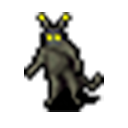
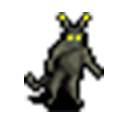
Add level 17

Changed region(s): [[0.1875, 0.0938, 0.8125, 0.8438], [0.5625, 0.7812, 0.5938, 0.8125], [0.4062, 0.7812, 0.4375, 0.8125]]

diff --git a/js/enemy.js b/js/enemy.js
@@ -62,7 +62,7 @@ var speedThirteen = 220;
 var speedFourteen = 230;
 var speedFifteen= 240;
 var speedSixteen = 250;
-var speedSeventeen = 260;
+var speedSeventeen = 100;
 var speedEighteen = 270;
 var speedNineteen = 290;
 var speedTwenty = 300;
@@ -660,15 +660,15 @@ GiantSerpent.prototype.constructor = Beast;
 // Define Trolls level 16 mobs
 //////////////////////////////////
 
-function TrollFat(y) {
+function TrollBlue(y) {
   var obj = new Beast(y);
-  obj.sprite = 'img/troll_fat.png';
+  obj.sprite = 'img/troll_blue.png';
   obj.speed = speedSixteen - 150;
   obj.direction = "left";
   return obj;
 }
-TrollFat.prototype = Object.create(Beast.prototype);
-TrollFat.prototype.constructor = Beast;
+TrollBlue.prototype = Object.create(Beast.prototype);
+TrollBlue.prototype.constructor = Beast;
 
 function TrollGrey(y) {
   var obj = new Beast(y);
@@ -717,6 +717,60 @@ function TrollWhite(y) {
 TrollWhite.prototype = Object.create(Beast.prototype);
 TrollWhite.prototype.constructor = Beast;
 
+///////////////////////////////////////////////////
+// Define Imps level 17 mobs
+//////////////////////////////////
+
+function ImpPurple(y) {
+  var obj = new Beast(y);
+  obj.sprite = 'img/imp_purple.png';
+  obj.speed = speedSeventeen;
+  return obj;
+}
+ImpPurple.prototype = Object.create(Beast.prototype);
+ImpPurple.prototype.constructor = Beast;
+
+function ImpRed(y) {
+  var obj = new Beast(y);
+  obj.sprite = 'img/imp_red.png';
+  obj.speed = speedSeventeen + 8;
+  obj.direction = "left";
+  return obj;
+}
+ImpRed.prototype = Object.create(Beast.prototype);
+ImpRed.prototype.constructor = Beast;
+
+function ImpEnchanted(y) {
+  var obj = new Beast(y);
+  obj.sprite = 'img/imp_enchanted.png';
+  obj.speed = speedSeventeen + 80;
+  obj.direction = "left";
+  return obj;
+}
+ImpEnchanted.prototype = Object.create(Beast.prototype);
+ImpEnchanted.prototype.constructor = Beast;
+
+function ImpBlack(y) {
+  var obj = new Beast(y);
+  obj.sprite = 'img/imp_black.png';
+  obj.speed = speedSeventeen + 20;
+  return obj;
+}
+ImpBlack.prototype = Object.create(Beast.prototype);
+ImpBlack.prototype.constructor = Beast;
+
+function ImpMaster(y) {
+  var obj = new Beast(y);
+  obj.sprite = 'img/imp_master.png';
+  obj.speed = speedSeventeen + 140;
+  return obj;
+}
+ImpMaster.prototype = Object.create(Beast.prototype);
+ImpMaster.prototype.constructor = Beast;
+
+///////////////////////////////////////////////////
+// Define Elementals level 18 mobs
+//////////////////////////////////
 
 ///////////////////////////////////////////////////////
 // Instantiate all objects
@@ -956,16 +1010,31 @@ levelFifteen.push(giantSerpent);
 /////////////////////////////////////////
 // Instantiate Land Beasts lvl 16 enemies
 
-var trollFat = new TrollFat(row2);
+var trollBlue = new TrollBlue(row2);
 var trollGrey = new TrollGrey(row3);
 var trollGreen = new TrollGreen(row4);
 var trollRed = new TrollRed(row3);
 var trollBlack = new TrollBlack(row4);
 var trollWhite = new TrollWhite(row5);
 
-levelSixteen.push(trollFat);
+levelSixteen.push(trollBlue);
 levelSixteen.push(trollGrey);
 levelSixteen.push(trollGreen);
 levelSixteen.push(trollRed);
 levelSixteen.push(trollBlack);
 levelSixteen.push(trollWhite);
+
+/////////////////////////////////////////
+// Instantiate Imps lvl 17 enemies
+
+var impPurple = new ImpPurple(row3);
+var impRed = new ImpRed(row3);
+var impEnchanted = new ImpEnchanted(row4);
+var impBlack = new ImpBlack(row4);
+var impMaster = new ImpMaster(row6);
+
+levelSeventeen.push(impPurple);
+levelSeventeen.push(impRed);
+levelSeventeen.push(impEnchanted);
+levelSeventeen.push(impBlack);
+levelSeventeen.push(impMaster);

diff --git a/js/levelBuilder.js b/js/levelBuilder.js
@@ -114,6 +114,20 @@ function renderEntities() {
       levelSixteen.forEach(function(enemy) {
         enemy.render();
       });
+    } else if (player.level === 17) {
+      obstaclesSeventeen.forEach(function(obstacle) {
+        obstacle.render();
+      });
+      levelSeventeen.forEach(function(enemy) {
+        enemy.render();
+      });
+    } else if (player.level === 18) {
+      obstaclesEighteen.forEach(function(obstacle) {
+        obstacle.render();
+      });
+      levelEighteen.forEach(function(enemy) {
+        enemy.render();
+      });
     }
 
     player.render();
@@ -184,6 +198,10 @@ function updateEntities(dt) {
       });
     } else if (player.level === 16) {
       levelSixteen.forEach(function(enemy) {
+        enemy.update(dt);
+      });
+    } else if (player.level === 17) {
+      levelSeventeen.forEach(function(enemy) {
         enemy.update(dt);
       });
     }
@@ -339,6 +357,24 @@ function renderWorld() {
             'img/badlands_green.png',    // Row 3
             'img/badlands_green.png',    // Row 2
             'img/grass_jungle.png'    // Row 1 - Bottom Row
+        ];
+      } else if (player.level === 17) {
+        rowImages = [
+            'img/badlands_jungle.png',     // Row 6 - Top row
+            'img/badlands_orange.png',  // Row 5
+            'img/badlands_orange.png',     // Row 4
+            'img/badlands_orange.png',    // Row 3
+            'img/badlands_orange.png',    // Row 2
+            'img/badlands_gold.png'    // Row 1 - Bottom Row
+        ];
+      } else if (player.level === 18) {
+        rowImages = [
+            'img/rock_path.png',     // Row 6 - Top row
+            'img/badlands_jungle.png',  // Row 5
+            'img/badlands_jungle.png',     // Row 4
+            'img/badlands_jungle.png',    // Row 3
+            'img/badlands_jungle.png',    // Row 2
+            'img/badlands_green.png'    // Row 1 - Bottom Row
         ];
       }
 

diff --git a/js/obstacle.js b/js/obstacle.js
@@ -531,4 +531,34 @@ obstaclesSixteen.push(sixteenRock7);
 obstaclesSixteen.push(sixteenRock8);
 
 /////////////////////////////////////////
-// obstacles level 17 (Land Beasts)
+// obstacles level 17 (Imps)
+
+// lower row of rocks
+var seventeenRock1 = new Obstacle(colOne, rowTwo, rock);
+var seventeenRock2 = new Obstacle(colThree, rowTwo, rock);
+var seventeenRock3 = new Obstacle(colFour, rowTwo, rock);
+var seventeenRock4 = new Obstacle(colFive, rowTwo, rock);
+var seventeenRock5 = new Obstacle(colSix, rowTwo, rock);
+var seventeenRock6 = new Obstacle(colSeven, rowTwo, rock);
+
+// top row of rocks
+var seventeenRock7 = new Obstacle(colOne, rowFive, rock);
+var seventeenRock8 = new Obstacle(colTwo, rowFive, rock);
+var seventeenRock9 = new Obstacle(colThree, rowFive, rock);
+var seventeenRock10 = new Obstacle(colFour, rowFive, rock);
+var seventeenRock11 = new Obstacle(colFive, rowFive, rock);
+var seventeenRock12 = new Obstacle(colSeven, rowFive, rock);
+
+obstaclesSeventeen.push(seventeenRock1);
+obstaclesSeventeen.push(seventeenRock2);
+obstaclesSeventeen.push(seventeenRock3);
+obstaclesSeventeen.push(seventeenRock4);
+obstaclesSeventeen.push(seventeenRock5);
+obstaclesSeventeen.push(seventeenRock6);
+
+obstaclesSeventeen.push(seventeenRock7);
+obstaclesSeventeen.push(seventeenRock8);
+obstaclesSeventeen.push(seventeenRock9);
+obstaclesSeventeen.push(seventeenRock10);
+obstaclesSeventeen.push(seventeenRock11);
+obstaclesSeventeen.push(seventeenRock12);

diff --git a/js/engine.js b/js/engine.js
@@ -191,6 +191,7 @@ var Engine = (function(global) {
         'img/badlands_gold.png',
         'img/badlands_yellow.png',
         'img/badlands_orange.png',
+        'img/badlands_jungle.png',
         'img/snail.png',
         'img/scorpion.png',
         'img/beetle.png',
@@ -252,12 +253,17 @@ var Engine = (function(global) {
         'img/gecko.png',
         'img/lizard.png',
         'img/giant_serpent.png',
-        'img/troll_fat.png',
+        'img/troll_blue.png',
         'img/troll_grey.png',
         'img/troll_green.png',
         'img/troll_red.png',
         'img/troll_black.png',
         'img/troll_white.png',
+        'img/imp_purple.png',
+        'img/imp_red.png',
+        'img/imp_enchanted.png',
+        'img/imp_black.png',
+        'img/imp_master.png',
         'img/hero_knight.png',
         'img/hero_sorceress.png',
         'img/hero_mage.png',

diff --git a/js/player.js b/js/player.js
@@ -309,6 +309,10 @@ Player.prototype.update = function(dt) {
     this.checkCollisions(levelFifteen);
   } else if (player.level === 16) {
     this.checkCollisions(levelSixteen);
+  } else if (player.level === 17) {
+    this.checkCollisions(levelSeventeen);
+  } else if (player.level === 18) {
+    this.checkCollisions(levelEighteen);
   }
 
   // Level up conditional
@@ -427,6 +431,8 @@ else if (player.level > 0 && this.gamePaused === false
     currentObstacles = this.checkObstacles(obstaclesFifteen);
   } else if (this.level === 16) {
     currentObstacles = this.checkObstacles(obstaclesSixteen);
+  } else if (this.level === 17) {
+    currentObstacles = this.checkObstacles(obstaclesSeventeen);
   }
 
   if (key === 'up' && (currentObstacles.indexOf("Up is Blocked") == -1)
